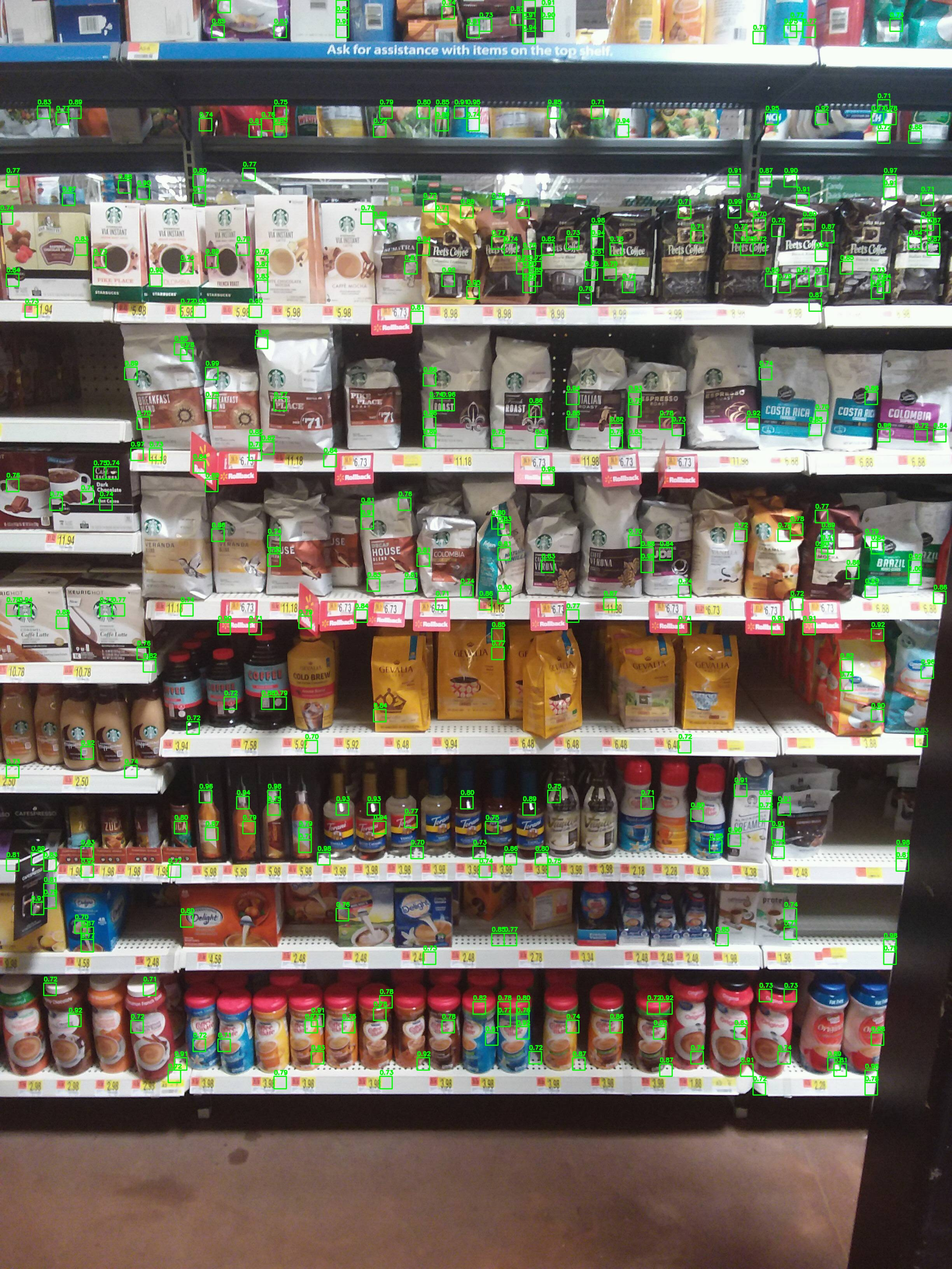
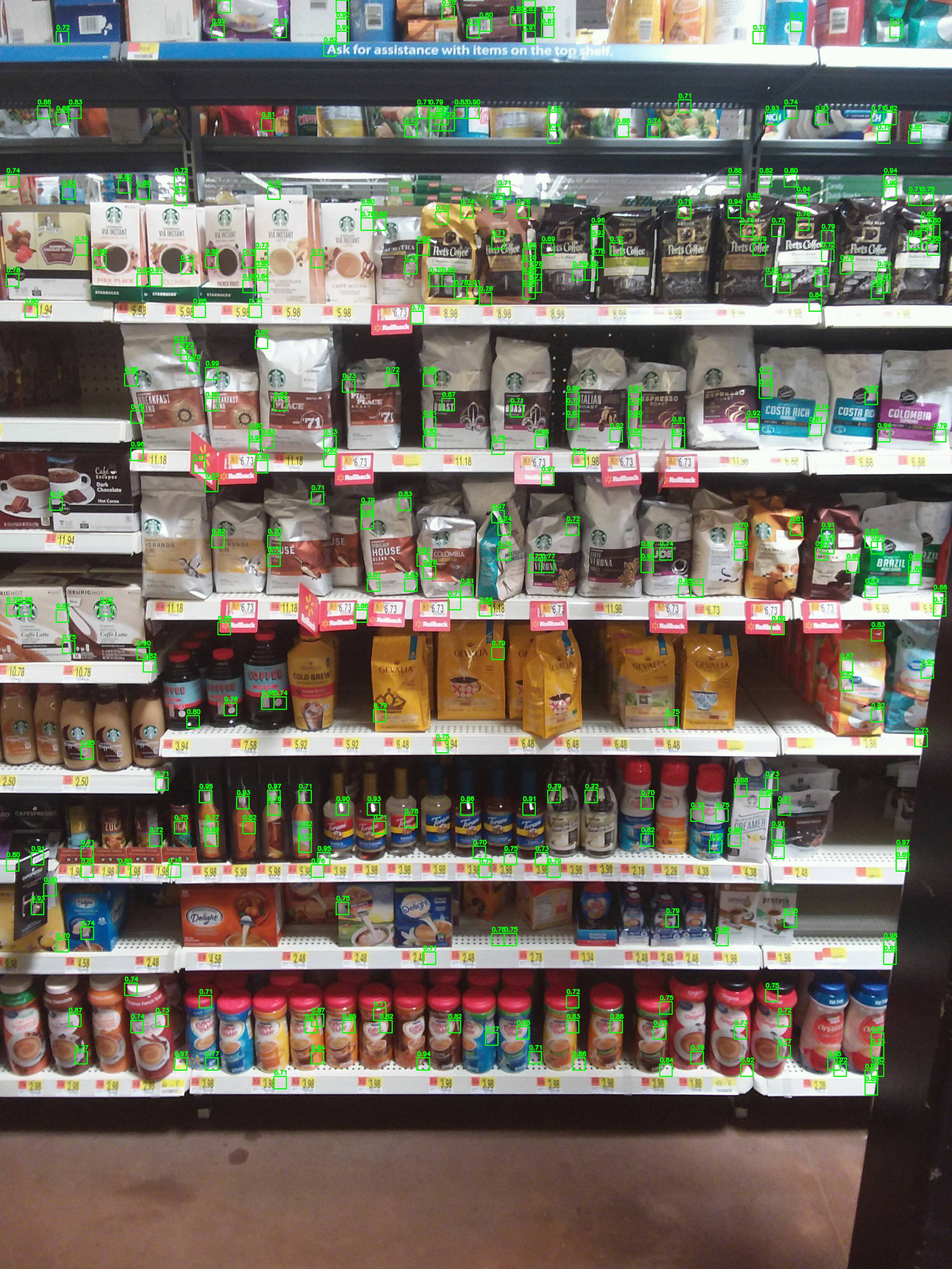
small changes

diff --git a/src/train.py b/src/train.py
@@ -56,7 +56,7 @@ def evaluate_model(model, X_test, Y_test):
 # -------------------------------
 # 4. Sliding Window Detection
 # -------------------------------
-def detect_products(model, img_path, patch_size=64, step=32, threshold=0.7):
+def detect_products(model, img_path, patch_size=32, step=16, threshold=0.7):
     img = cv2.imread(img_path)
     h, w, _ = img.shape
 

diff --git a/src/main.py b/src/main.py
@@ -4,7 +4,10 @@ Main script para orquestar el pipeline completo de detección de productos en go
 
 import pickle
 import os
+import sys
 from train import prepare_data, train_model, evaluate_model, detect_products, draw_boxes
+
+sys.stdout.flush()
 
 def main():
     """Pipeline principal: preparar datos, entrenar y evaluar modelo."""

diff --git a/src/format_dataset.py b/src/format_dataset.py
@@ -7,7 +7,7 @@ from utils import load_image, load_labels, yolo_to_bbox
 random.seed(42)
 np.random.seed(42)
 
-def build_dataset(img_dir, lbl_dir, patch_size=64, max_images=50):
+def build_dataset(img_dir, lbl_dir, patch_size=32, max_images=1000):
     X = []
     Y = []
 
